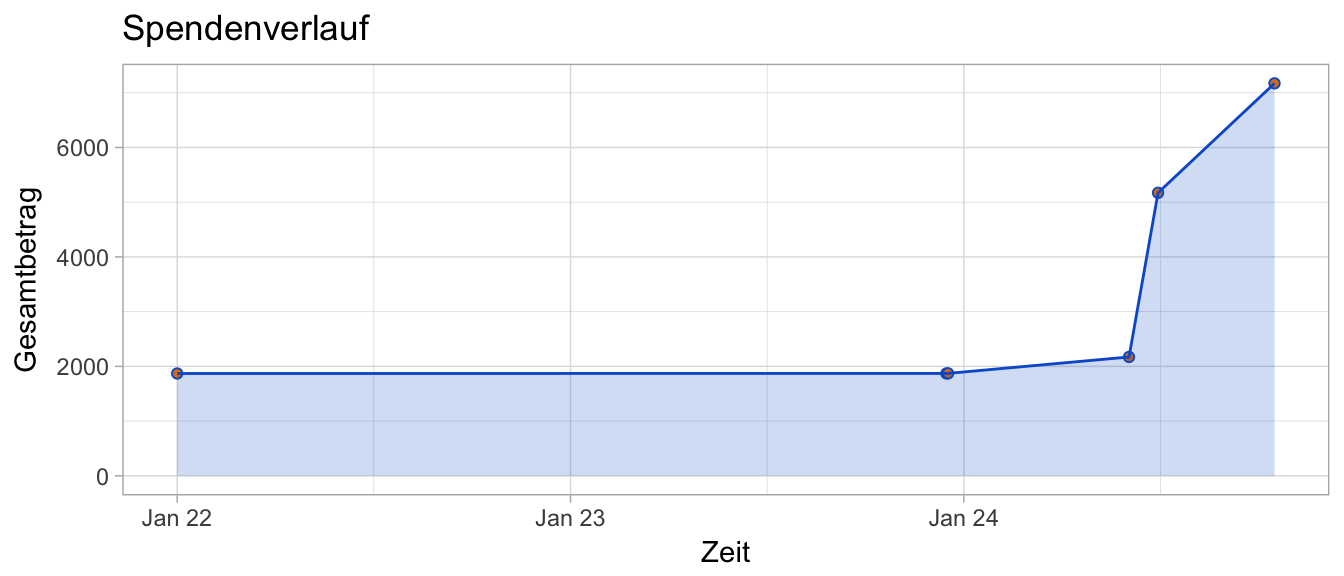
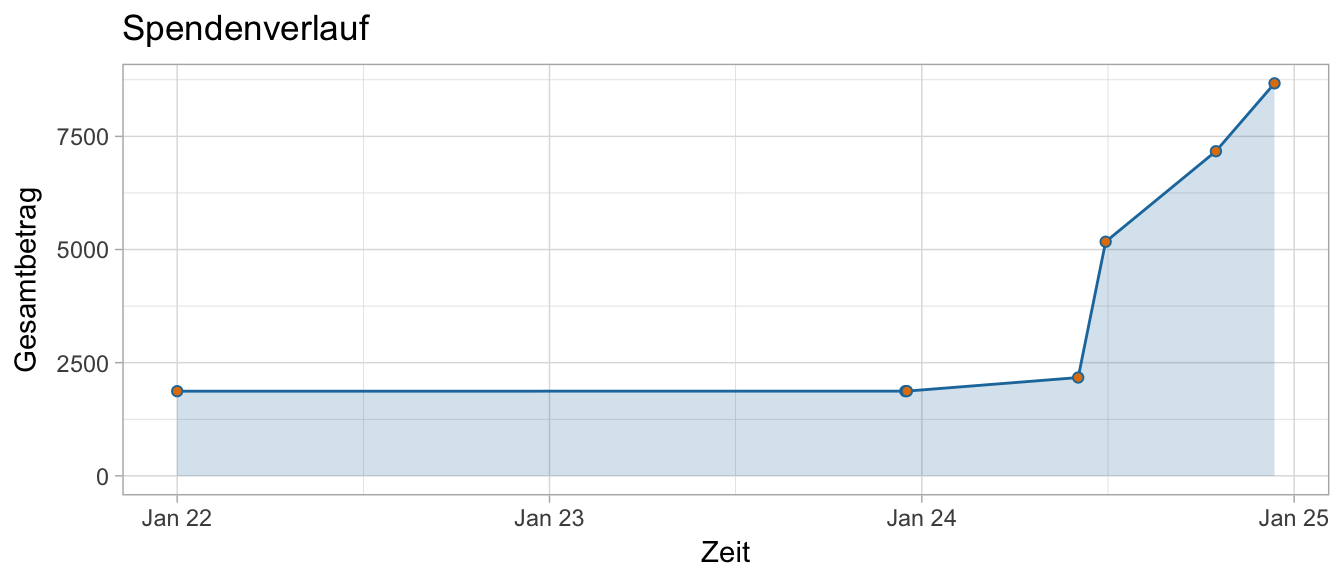
new day

diff --git a/Results.html b/Results.html
@@ -217,7 +217,7 @@ $(document).ready(function () {
 
 
 <p align="right" class="text-primary">
-Stand: 24.01.2018 23:01
+Stand: 25.01.2018 10:01
 </p>
 <p> </p>
 <p> </p>
@@ -251,7 +251,7 @@ Spende
 Spende bei Zuschlag
 </td>
 <td style="text-align:right;">
-5000
+6500
 </td>
 </tr>
 <tr>
@@ -263,18 +263,18 @@ Für unser eigenes Zentrum
 </td>
 </tr>
 <tr>
-<td style="text-align:left;font-weight: bold;color: white;background-color: #0B5ECF;">
+<td style="text-align:left;font-weight: bold;color: white;background-color: #E17E08;">
 Gesamt
 </td>
-<td style="text-align:right;font-weight: bold;color: white;background-color: #0B5ECF;">
-7172
+<td style="text-align:right;font-weight: bold;color: white;background-color: #E17E08;">
+8672
 </td>
 </tr>
 </tbody>
 </table>
 <p> </p>
 <p> </p>
-<p><strong>4</strong> Leute haben bisher <strong>7172 €</strong> gespendet oder zugesagt!</p>
+<p><strong>5</strong> Leute haben bisher <strong>8672 €</strong> gespendet oder zugesagt!</p>
 <p> </p>
 <p> </p>
 </div>
